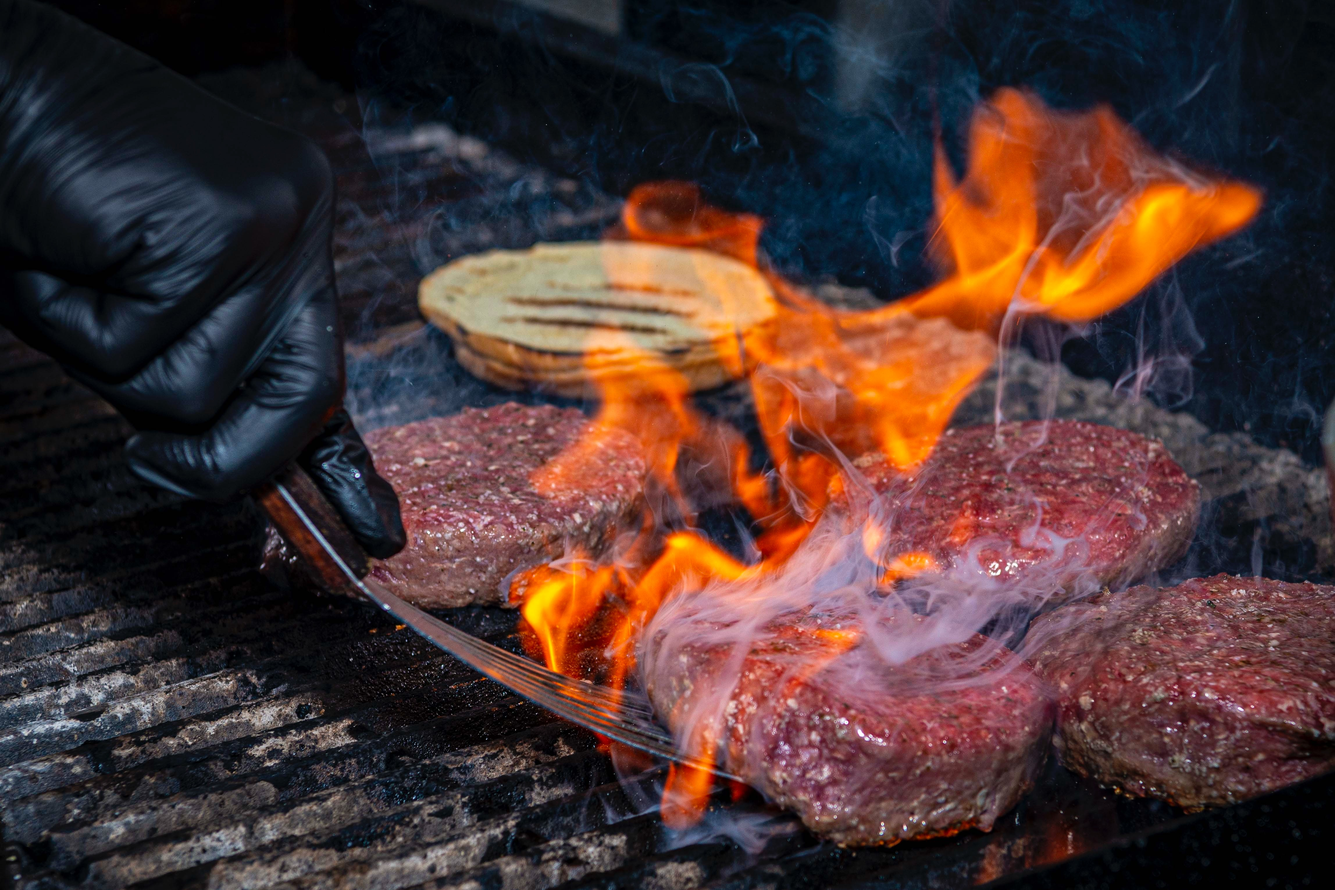
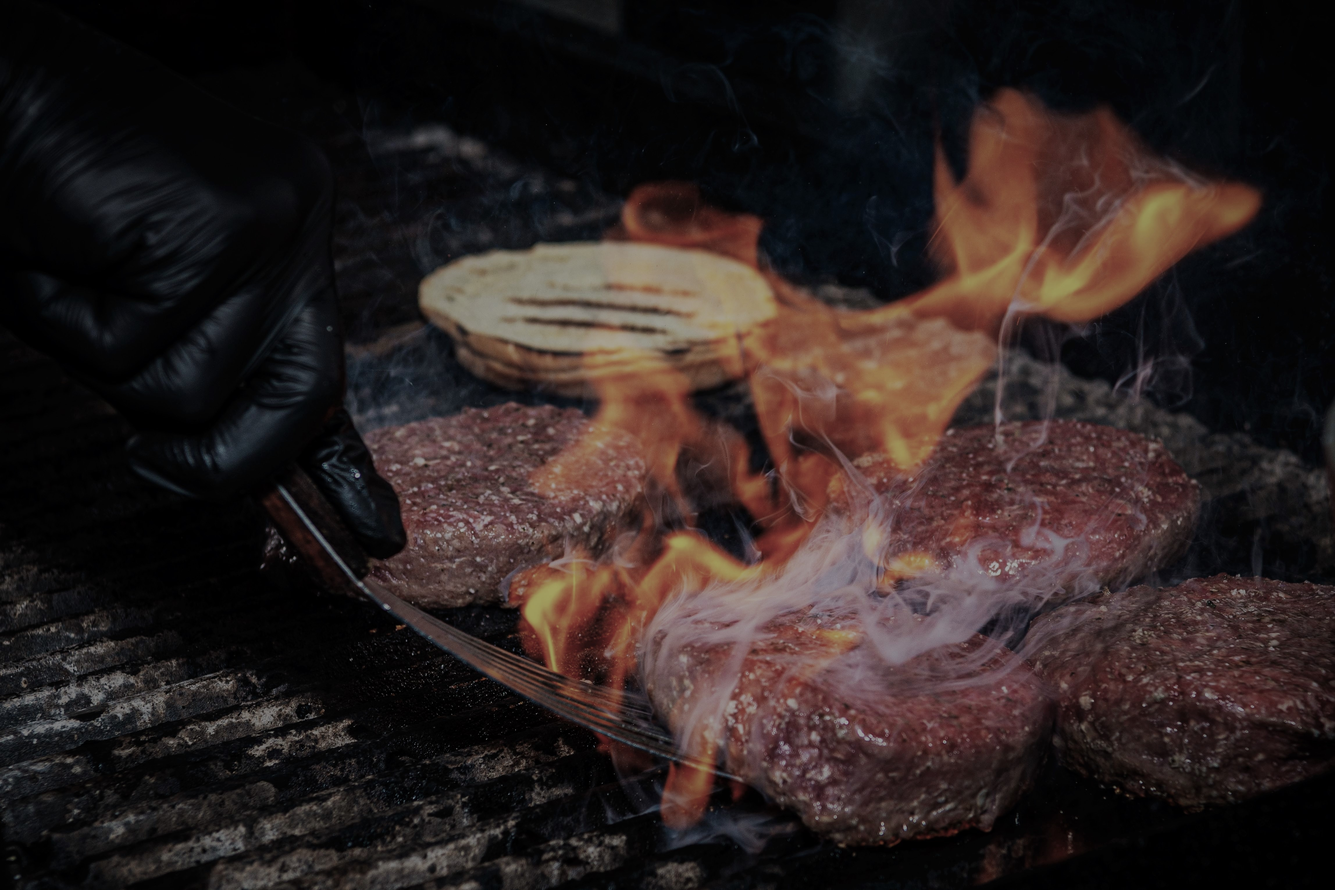
mod background

diff --git a/style.css b/style.css
@@ -72,7 +72,7 @@ body {
     border-radius: 5px;
     
   } 
-  /* Style the logo link (notice that we set the same value of line-height and font-size to prevent the header to increase when the font gets bigger */
+  
   #logo{
   max-width: 90px;
   margin-left: 10px;
@@ -96,7 +96,7 @@ body {
    margin-top: 20px;
    transition: 0.4s;
   }
-  /*------------------ container------------------------*/
+  /*---------------------------------------------- container------------------------------------------------*/
   
   .container {
     display: flex;
@@ -135,7 +135,7 @@ body {
     color: rgba(255, 255, 255, 0.959);
     direction: ltr;
   }
-/*--------------------------------------- gallery grid -----------------------------------------------------------*/
+/*--------------------------------------------- gallery grid --------------------------------------*/
 .gallery button {
   border: 0 transparent;
   margin-left: 105PX;
@@ -154,7 +154,7 @@ body {
 .gallery button:hover{
   background-color: beige;
 }
-/*-----------------------------------------  Footer  --------------------------------------------------------------*/
+/*-----------------------------------------------  Footer  --------------------------------------------------------------*/
 
 footer{
 margin-top :30vh;
@@ -170,7 +170,7 @@ background-color: rgb(39, 39, 39);
  .mb-4{
 margin-top: 70px;
  }
-/*-------------------------------- MEDIA SCREEN ---------------------------*/
+                /*-------------------------------- MEDIA SCREEN ---------------------------*/
 
   @media screen and (max-width: 300px) {
     #header{
@@ -196,7 +196,7 @@ margin-top: 70px;
       color: rgb(255, 255, 255);
     }
 
-     .background{background-image:url("imgrotidor/crew5.jpg");}
+     .background{background-image:url("imgrotidor/crew7.jpg");}
      .container .image img{
       width: 150px;
       height: 260px;

diff --git a/index.html b/index.html
@@ -146,8 +146,8 @@
         <div class="desc">Pilons De Poulet </div>
       </div>
       <div class="gallery">
-        <a target="_blank" href="imgrotidor/p16.jpg">
-          <img src="imgrotidor/p16.jpg" alt="Cinque Terre" >
+        <a target="_blank" href="imgrotidor/p1.jpg">
+          <img src="imgrotidor/p1.jpg" alt="Cinque Terre" >
         </a>
         <div class="desc">Yakitori</div>
       </div>
